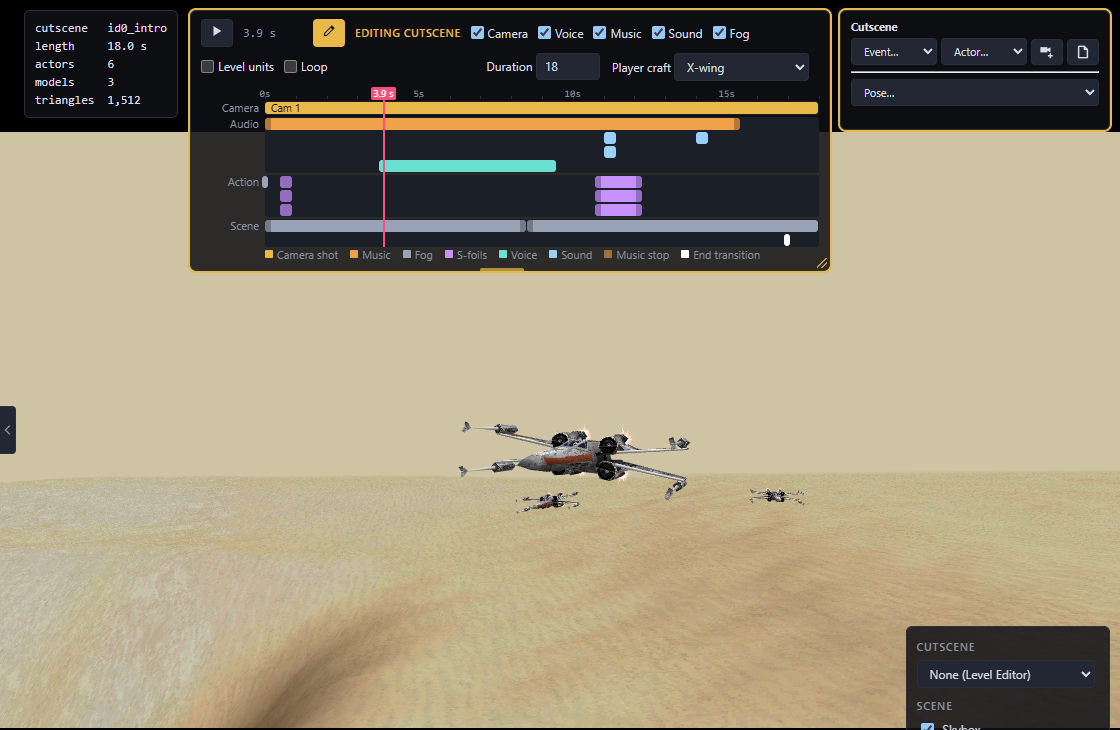
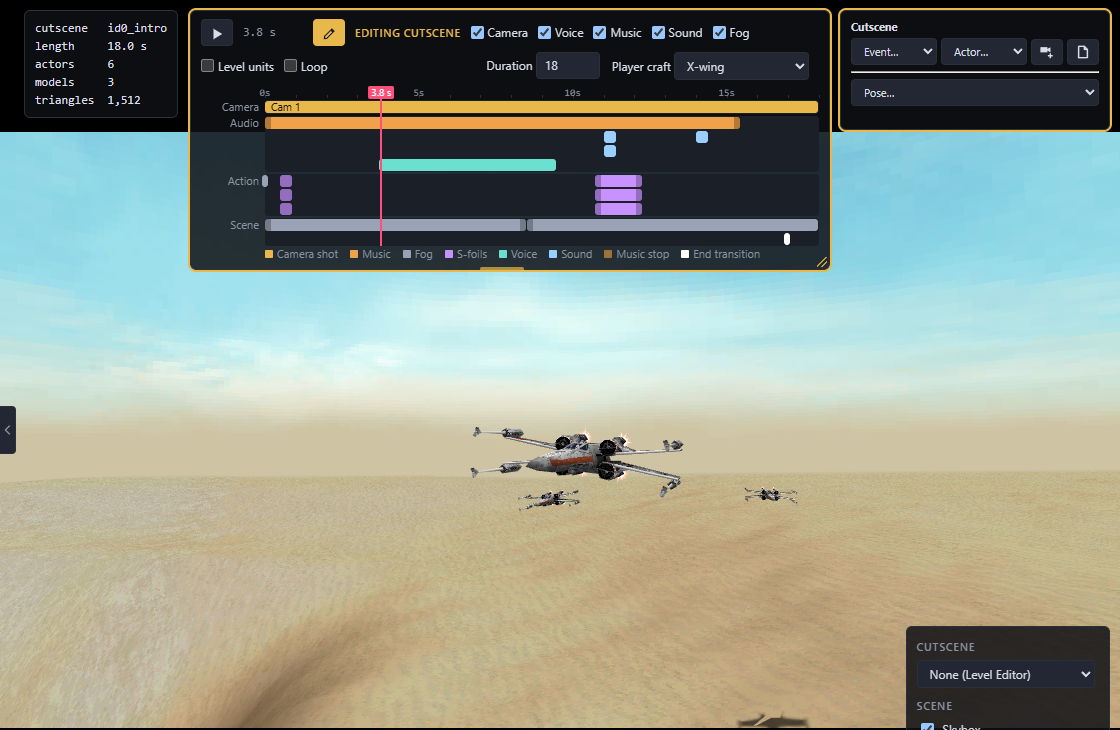
Fix Copied Triggers And The Cutscene Sky In The Explorer
- Every DAT add, copy or remove now rewrites each record's own index at +0x04, which the game indexes its tables with: a trigger copied from another level kept its old index and crashed the game once the player could set it off
- A trigger area copied from another level is set off by the player with a radius of at least 10, and trigger areas get a Radius box
- Renaming in a mod level with its own objectives only refuses names the main game code looks up, since no stock mission script runs there
- The sky dome shrinks to fit a cutscene camera's short far plane instead of being clipped to a flat colour
- rs64_view reports the cutscene camera's real target while looking through it
- The add list no longer breaks with a just-added camera selected
- New mod level folders are at most 9 characters
- Wiki: Desert Hunt walkthrough with game screenshots, cutscene fly-by image, trigger radius, approved craft and per-slot medals

diff --git a/tools/web/rs64-explorer/levels.js b/tools/web/rs64-explorer/levels.js
@@ -1684,7 +1684,15 @@ async function writeRules(dir, doc, label)
   await editText(RULES_PATH(rulesFolderOf(dir)), rulesWrite(doc), label);
 }
 
-const scriptFinds = (name) => !!name && nameUses(romBytes.subarray(0, BLOB_START), name, 0, 0) > 0;
+// The stock mission scripts (and the names they look up) are in the mission overlay; a mod level with its own objectives runs none of them,
+// so there only the main code's lookups (the player start and the like, used by every level) count.
+const MISSION_OVERLAY_ROM = 0xA5D30;
+
+const scriptFinds = (name, dir = selected) => {
+  const end = modLevelOf(dir)?.objectives?.length ? MISSION_OVERLAY_ROM : BLOB_START;
+
+  return !!name && nameUses(romBytes.subarray(0, end), name, 0, 0) > 0;
+};
 
 // Renames an object; its rules, camera shot lines and every DAT reference (datRenameItem) follow. Throws a modder-facing reason when it
 // can't. Returns how many of each moved.
@@ -1700,8 +1708,8 @@ async function renameObject(it, name, dir = selected)
   if (old === name)
     return moved;
 
-  if (scriptFinds(old))
-    throw new Error(`The mission's script looks "${old}" up by name, so it can't be renamed`);
+  if (scriptFinds(old, dir))
+    throw new Error(`The game looks "${old}" up by name, so it can't be renamed`);
 
   if (parseDAT(await rom.read(dir + '/dat')).items.some((x) => x.name === name))
     throw new Error(`"${name}" is already used in this level`);
@@ -1748,9 +1756,9 @@ async function ensureRuleName(dir, it)
   if (it.name && items.filter((x) => x.name === it.name).length === 1)
     return it.name;
 
-  if (scriptFinds(it.name))
+  if (scriptFinds(it.name, dir))
   {
-    alert(`"${it.name}" is shared with another object and the mission's script looks it up by name, so it cannot be renamed for a rule.`);
+    alert(`"${it.name}" is shared with another object and the game looks it up by name, so it cannot be renamed for a rule.`);
 
     return null;
   }
@@ -2487,6 +2495,32 @@ function triggerWhoRow(it) {
   return row;
 }
 
+// A trigger area's reach (record +0x1C, in level units): how close what sets it off has to come.
+const TRIGGER_RADIUS = 0x1C;
+
+function setTriggerRadius(bytes, it, r)
+{
+  const out = bytes.slice();
+
+  new DataView(out.buffer).setFloat32(it.offset + TRIGGER_RADIUS, r);
+
+  return out;
+}
+
+function triggerRadiusRow(it)
+{
+  const inp = elem('input', { type: 'number', min: 0.5, step: 0.5, value: +(it.radius ?? 0).toFixed(2), title: 'How close it has to come, in level units' });
+
+  inp.onchange = () => {
+    const r = parseFloat(inp.value);
+
+    if (Number.isFinite(r) && r > 0)
+      editItem(it, (b) => setTriggerRadius(b, it, r), `Radius: ${it.name || 'trigger'} -> ${r}`);
+  };
+
+  return elem('label', {}, 'Radius ', inp);
+}
+
 // The song a music region plays when the player flies into it (a cue of the in-mission cue table).
 function musicZoneRow(it)
 {
@@ -2872,7 +2906,7 @@ function syncSelPanel()
     }
 
   if (sel && editMode === 'events' && isTriggerArea(it))
-    f.append(triggerWhoRow(it));
+    f.append(triggerWhoRow(it), triggerRadiusRow(it));
 
   if (sel && editMode === 'events' && isTriggerArea(it) && it.name)
     f.append(shotLinkRow(it), destroyRow(it), waveTriggerRow(it));
@@ -2926,17 +2960,26 @@ async function addItem(src, pos, zone)
   // A copy keeps its source's name; one that rules name (its source deleted or not) gets its own, so it never takes over their rules.
   const ruled = await ruleNames(dir);
 
+  const newest = (bytes) => parseDAT(dvOf(bytes)).items.filter((x) => x.type === it.type).reduce((a, b) => (a && a.index >= b.index ? a : b), null);
+
   await historyGroup(`Add ${it.name || TYPES[markerKind(it)]?.label || 'item'}`, async () => {
     await editAsset(dir + '/dat', (bytes) => datAddItem(bytes, it.type, rec));
+
+    // A trigger area from another level would still wait for that level's units, and may be sized for them, so the copy is set off by the
+    // player and reaches at least 10 units.
+    if (src.dv && isTriggerArea(it))
+    {
+      await editAsset(dir + '/dat', (bytes) => {
+        const set = triggerSetActivators(bytes, newest(bytes), ['ply']);
+
+        return setTriggerRadius(set, newest(set), Math.max(it.radius ?? 0, 10));
+      });
+    }
 
     if (!it.name || !ruled.has(it.name))
       return;
 
-    await editAsset(dir + '/dat', (bytes) => {
-      const added = parseDAT(dvOf(bytes)).items.filter((x) => x.type === it.type).reduce((a, b) => (a && a.index >= b.index ? a : b), null);
-
-      return datNameItem(bytes, added, uniqueName(bytes, it.name, ruled));
-    });
+    await editAsset(dir + '/dat', (bytes) => datNameItem(bytes, newest(bytes), uniqueName(bytes, it.name, ruled)));
   });
 
   await reloadLevel(dir);
@@ -3057,9 +3100,13 @@ async function fillAddKinds() {
 
   for (const m of root?.getObjectByName('markers')?.children ?? []) {
     const it = m.userData.item;
+
+    if (!it || it.pathEvent)
+      continue;
+
     const k = String(markerKind(it));
 
-    if (!it.pathEvent && !addTemplates.has(k))
+    if (!addTemplates.has(k))
       addTemplates.set(k, it);
   }
 
@@ -3707,13 +3754,12 @@ async function gameFolder()
 }
 
 // The game's --boot-target for what is open: a cutscene file plays on its own, a level (or one of its sequences) starts its mission.
-// A mod level boots as its template with ROGUESQ_MOD_LEVEL naming it.
 function bootTarget()
 {
   const mc = modLevels.find((l) => selected === `cut:data/cuts/${l.folder}_intro` || selected === `cut:data/cuts/${l.folder}_extro`);
 
   if (mc)
-    return `cutscene:${mc.template},${selected.endsWith('_intro') ? 0 : 1} --set ROGUESQ_MOD_LEVEL=${mc.id}`;
+    return `cutscene:${mc.id},${selected.endsWith('_intro') ? 0 : 1}`;
 
   const c = selected?.match(/^cut:data\/cuts\/id(\d+)_(intro|extro|special)$/);
 
@@ -3723,7 +3769,7 @@ function bootTarget()
   const ml = selectedLevel && modLevelOf(selected);
 
   if (ml)
-    return `level:${ml.template} --set ROGUESQ_MOD_LEVEL=${ml.id}`;
+    return `level:${ml.id}`;
 
   const lv = selectedLevel && selected.match(/\/lv_([0-9a-z])(:\d+)?$/);
 

diff --git a/tools/web/rs64-explorer/webmcp.js b/tools/web/rs64-explorer/webmcp.js
@@ -1099,11 +1099,26 @@ const WEBMCP_TOOLS = [
 
       controls.update();
 
+      const throughCut = !!(cut?.file && $('cutCam').checked && cut.camNode);
+      let eye = camera.position;
+      let look = controls.target;
+
+      // Through the cutscene camera the orbit target is stale (and controls.update just turned the view to it until the next frame): report
+      // the cutscene camera's own pose, its target a point straight ahead as far away as the orbit target.
+      if (throughCut)
+      {
+        const m = new THREE.Matrix4().multiplyMatrices(cut.camNode.matrixWorld, CAM_FLIP);
+        const ahead = new THREE.Vector3(0, 0, -1).transformDirection(m);
+
+        eye = new THREE.Vector3().setFromMatrixPosition(m);
+        look = eye.clone().addScaledVector(ahead, eye.distanceTo(controls.target));
+      }
+
       return {
-        position: toSpace(camera.position),
-        target: toSpace(controls.target),
+        position: toSpace(eye),
+        target: toSpace(look),
         space: space ? 'level' : 'scene',
-        cutsceneCamera: !!(cut?.file && $('cutCam').checked)
+        cutsceneCamera: throughCut
       };
     },
   },
@@ -1261,7 +1276,7 @@ const WEBMCP_TOOLS = [
   {
     name: 'rs64_level_rename_object',
     edit: true,
-    description: 'Names an object in the open level (rules, camera shots and destroy lists name objects). Refused when the mission\'s script looks the old name up, or the new name is taken. The level\'s rules, camera shot lines, the NPCs flying it (a path or roam area), the trigger areas it sets off and the paths continuing into it follow the new name; moved counts each.',
+    description: 'Names an object in the open level (rules, camera shots and destroy lists name objects). Refused when the game looks the old name up (a stock mission script, or in every level the player start and the like; a mod level with its own objectives runs no stock script), or the new name is taken. The level\'s rules, camera shot lines, the NPCs flying it (a path or roam area), the trigger areas it sets off and the paths continuing into it follow the new name; moved counts each.',
     inputSchema: {
       type: 'object',
       properties: { type: { type: 'integer' }, index: { type: 'integer' }, name: { type: 'string', pattern: '^[!-~]{1,47}$' } },

diff --git a/tools/web/rs64-explorer/rs64assets.js b/tools/web/rs64-explorer/rs64assets.js
@@ -801,13 +801,17 @@ function rs64Lib()
     gold: { time: 6, kills: 30, accuracy: 50, friendlies: 0 },
   };
 
+  const MOD_FOLDER_MAX = 9;
+
   function modLevelNew(levels, title, template, medals = MEDALS_SIMPLE)
   {
-    const base = title.toLowerCase().replace(/[^a-z0-9]+/g, '_').replace(/^_+|_+$/g, '').slice(0, 44) || 'level';
+    // The game's manifest names hold 15 characters and the folder names "<folder>_intro", so a folder is at most 9 (MOD_FOLDER_MAX).
+    const cut = (s, n) => s.slice(0, n).replace(/_+$/, '');
+    const base = cut(title.toLowerCase().replace(/[^a-z0-9]+/g, '_').replace(/^_+|_+$/g, ''), MOD_FOLDER_MAX) || 'level';
     let folder = base;
 
     for (let k = 2; levels.some((l) => l.folder === folder || l.id === folder); k++)
-      folder = `${base}_${k}`;
+      folder = `${cut(base, MOD_FOLDER_MAX - String(k).length - 1)}_${k}`;
 
     return { id: folder, title, description: '', template, folder, medals: structuredClone(medals) };
   }
@@ -1476,6 +1480,12 @@ function rs64Lib()
 
     if (o.getUint32(0x44) >= s.end)
       o.setUint32(0x44, o.getUint32(0x44) + delta);
+
+    // Every record holds its own index in its type at +0x04, and the game indexes the type's table with it (a trigger's activators,
+    // parseDatEventTriggers), so a copied record or one after a removed item would point at the wrong entry or past the table.
+    for (const it of parseDAT(o).items)
+      if (it.type === type)
+        o.setUint16(it.offset + 4, it.index);
 
     return datRebuildNameMap(out);
   }

diff --git a/tools/web/rs64-explorer/core.js b/tools/web/rs64-explorer/core.js
@@ -676,6 +676,7 @@ let spin = 0;
 let sky = null;
 let skyColor = null;
 const skyPos = new THREE.Vector3();
+const SKY_DROP = 38;
 
 ready.then(() => renderer.setAnimationLoop(() => {
   const dt = Math.min(clock.getDelta(), 0.1);
@@ -698,9 +699,15 @@ ready.then(() => renderer.setAnimationLoop(() => {
   updateCutSfxPositions();
   updateFog();
 
-  // The dome rim sits 38 units above its origin (x2 scale); drop it so the rim meets the horizon.
+  // The dome rim sits 38 units above its origin (x2 scale); drop it so the rim meets the horizon. It is drawn first without depth, so a
+  // short far plane (a cutscene's fog distance) only shrinks it around the camera, as the game draws its sky past the terrain's clip.
   if (sky && sky.parent)
-    sky.position.copy(sky.parent.worldToLocal(skyPos.copy(camera.position))).y += 76;
+  {
+    const s = Math.min(2, (camera.far * 0.9) / (sky.userData.reach * sky.parent.matrixWorld.getMaxScaleOnAxis()));
+
+    sky.scale.setScalar(s);
+    sky.position.copy(sky.parent.worldToLocal(skyPos.copy(camera.position))).y += SKY_DROP * s;
+  }
 
   // Cutscenes drive the lens themselves.
   if (orthoView && cut)

diff --git a/tools/web/rs64-explorer/effects.js b/tools/web/rs64-explorer/effects.js
@@ -2385,6 +2385,11 @@ async function showLevel(dir, keepView = false, skyOverride = null)
 
     sky = buildObject(m.hob.objects[0], m, skyId, { tris: 0, verts: 0, parts: 0 });
     sky.name = 'sky';
+
+    const bound = new THREE.Box3().setFromObject(sky).getBoundingSphere(new THREE.Sphere());
+
+    // How far its farthest point is from the camera at scale 1, with the rim dropped to the horizon (SKY_DROP per unit of scale).
+    sky.userData.reach = bound.center.clone().setY(bound.center.y + SKY_DROP).length() + bound.radius;
     sky.scale.setScalar(2);
     sky.visible = $('optSky').checked;
 

diff --git a/docs/wiki/Make-a-Custom-Level.md b/docs/wiki/Make-a-Custom-Level.md
@@ -21,9 +21,9 @@ Every custom level runs on top of a stock level, its *template*. The template de
 
 - **Title** and **description** for SELECT LEVEL.
 - **Briefing**: pick a voice line from the game, or **Import recording…** to use your own `.wav` or `.mp3`.
-- **Approved craft**: which ships the player can pick.
+- **Approved craft**: which ships the player can pick. As in the stock levels, the hangar still shows every ship the player owns, and one that isn't approved can't be launched.
 - **Objectives** (1 to 4): see [Objectives](#objectives) below.
-- **Medals**: time, kills, accuracy and friendlies saved for bronze, silver and gold.
+- **Medals**: time, kills, accuracy and friendlies saved for bronze, silver and gold. Each save slot keeps its own medals for the level.
 - **Opening crawl** and **starting song**.
 
 ### Objectives
@@ -76,22 +76,26 @@ Your level's Cutscene list has its intro, ending and **Opening crawl**. See [Mak
 
 ## Example: a short hunt on Tatooine
 
-A level where the player destroys three TIE fighters and reaches a landing area.
+A level where the player destroys three TIE fighters.
 
 1. Open Ambush at Mos Eisley in **Levels** and pick **New blank level…** for flat ground with the Tatooine sky.
-2. **Level settings…**: title *Desert Hunt*, a one-line description, a briefing voice line, and the X-wing as the approved craft.
-3. In Objects mode, open **Add to level**, search *TIE fighter* (from another level) and click three spots ahead of the player start. Give each one a path with **New path** in its panel.
-4. In Events mode, add a trigger area past the TIEs and name it *landing*.
-5. Back in **Level settings…**, **Add objective** twice:
-   - *Destroy the TIE fighters*: goal **Destroy units**, Ctrl+click all three.
-   - *Land at the outpost*: goal **Reach an area**, pick *landing*.
-6. Set the medal times, kills and accuracy, then **Play in game**. Destroying the TIEs and flying into the area ends the mission with the medal screen.
+2. **Level settings…**: title *Desert Hunt*, a one-line description, and the X-wing as the approved craft.
+3. In Objects mode, open **Add to level**, search *TIE fighter* (from another level) and click three spots ahead of the player start. Give each one a path with **New path** in its panel, so it flies in and attacks.
+4. Back in **Level settings…**, **Add objective**: *Destroy the TIE fighters*, goal **Destroy units**, Ctrl+click all three.
+5. Set the medal times, kills and accuracy, then **Play in game**.
 
-> TODO: screenshots of this example in the game, up to the medal screen.
+The TIEs come at you as soon as the intro ends:
+
+![Desert Hunt in the game: the X-wing turns into the three TIE fighters over the flat desert](images/custom-level-flight.png)
+
+Destroying the last one ends the mission with the medal screen, scored against your level's medals:
+
+![The medal screen for Desert Hunt: mission complete, 3 enemies destroyed, no medal](images/custom-level-debrief.png)
+
+To make the player land as well, add an **Objective trigger** in Events mode where the outpost should be (a blank level has none, so it comes from another level, set off by the player) and set its **Radius** to the size of the outpost, then add a second objective with goal **Reach an area** that picks it. The mission then ends once both are done.
 
 ## Not yet possible
 
 - Enemy craft other than TIE fighters and TIE interceptors from other levels (see the [level mod list](Make-a-Level-Mod#not-yet-possible)).
 - A map bigger than its template.
 - Your own model as a **new** ship to pick, with its own hangar shot.
-- Still to be checked in the game: approved craft for custom levels, medals on save slots 1 and 2, imported briefing recordings, and a camera position copied into a blank level (**Add to level**) used as an objective's camera.

diff --git a/docs/wiki/Make-a-Level-Mod.md b/docs/wiki/Make-a-Level-Mod.md
@@ -37,7 +37,7 @@ In Objects or Events mode:
 
 - **Click** something to select it, and **right-click** to pick from everything under the cursor.
 - **W**, **E**, **R** move, rotate and scale it with the handles. **X** switches between world and local axes. The panel also has number boxes for exact values.
-- **Name** in the panel renames it. Rules, camera shots and the units flying a renamed path follow the new name. Objects the mission's own script looks up by name can't be renamed.
+- **Name** in the panel renames it. Rules, camera shots and the units flying a renamed path follow the new name. Objects the game looks up by name can't be renamed, such as the player start or what a stock mission's script uses. A custom level with its own objectives doesn't run the stock script, so there only the player start and the like are fixed.
 - **Ctrl+D** duplicates it and **Delete** removes it. The explorer won't let you delete something the mission needs (for example the target of an objective), and tells you why.
 
 To add something, use **Add to level** at the bottom of the panel. Search the list, pick an item, then click where it goes (Esc cancels). Items marked *from another level* are copied from that mission. You can also drag a row in by its grip icon.
@@ -61,7 +61,7 @@ Select a path in Events mode to edit its points. Drag a point to move it, or **S
 
 In Events mode:
 
-- A **trigger area** fires when something enters it. **Set off by** in its panel picks what that is: the player or one of the level's named units. Check it on triggers copied from another level, which can still name that level's units.
+- A **trigger area** fires when something enters it. **Set off by** in its panel picks what that is: the player or one of the level's named units. **Radius** is how close it has to come. A trigger copied from another level starts out set off by the player, with a radius of at least 10.
 - A **music region** changes the song when the player flies into it. Pick the song by name.
 - A trigger can **Play camera shot**: the game cuts to one of the level's cameras the first time the trigger fires, then hands control back while the fight goes on. In online co-op, both players see the shot unless you set it to show only for the player who fired it.
 

diff --git a/docs/wiki/Make-a-Cutscene-Mod.md b/docs/wiki/Make-a-Cutscene-Mod.md
@@ -47,7 +47,10 @@ This adds a fly-by to the intro of Ambush at Mos Eisley.
 2. **Actor…** → pick the X-wing from the player craft. It appears at the centre of the view.
 3. Pick the X-wing from **Pose…**. Move the playhead to 0.5 s, drag it off to one side of the shot with W, and turn it with E so its nose points along the way it will fly.
 4. Move the playhead to 1.5 s and drag it across to the other side. Keep the same turn, or it rolls on the way.
-5. Press play. The X-wing crosses the shot between the two keys. Drag the keys on the **Keys** row to make it faster (closer together) or slower.
+5. Tick **Camera** (posing unticks it) and press play. The X-wing crosses the shot between the two keys. Drag the keys on the **Keys** row to make it faster (closer together) or slower.
+
+   ![The new X-wing crossing the opening shot of the Mos Eisley intro, seen through the cutscene camera](images/cutscene-flyby.png)
+
 6. Optional: drag an engine sound from the sound list onto the timeline at 0.5 s.
 
 To follow it, pick a camera from **Pose…**, set its **Mode** to aim at the X-wing, and the camera turns to keep it in view.
